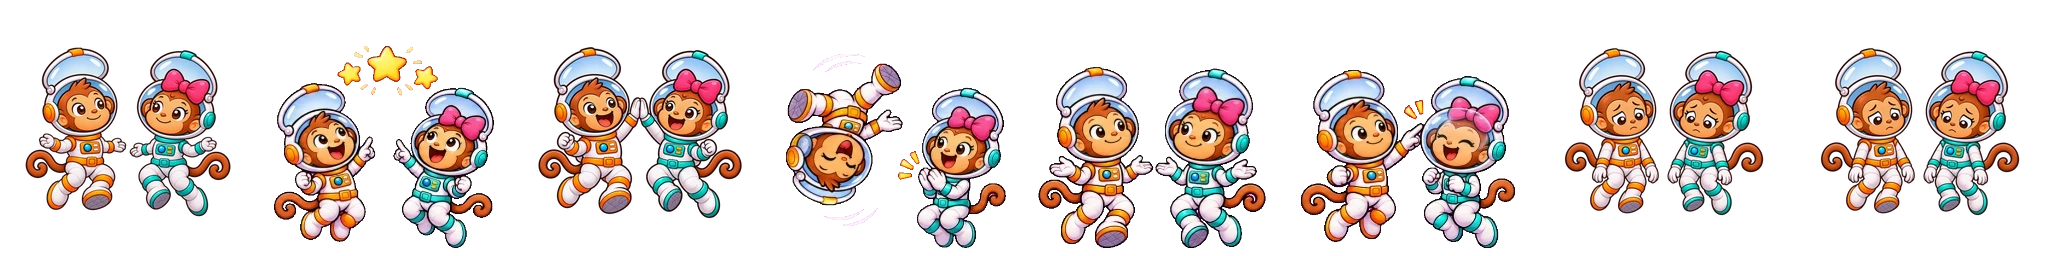
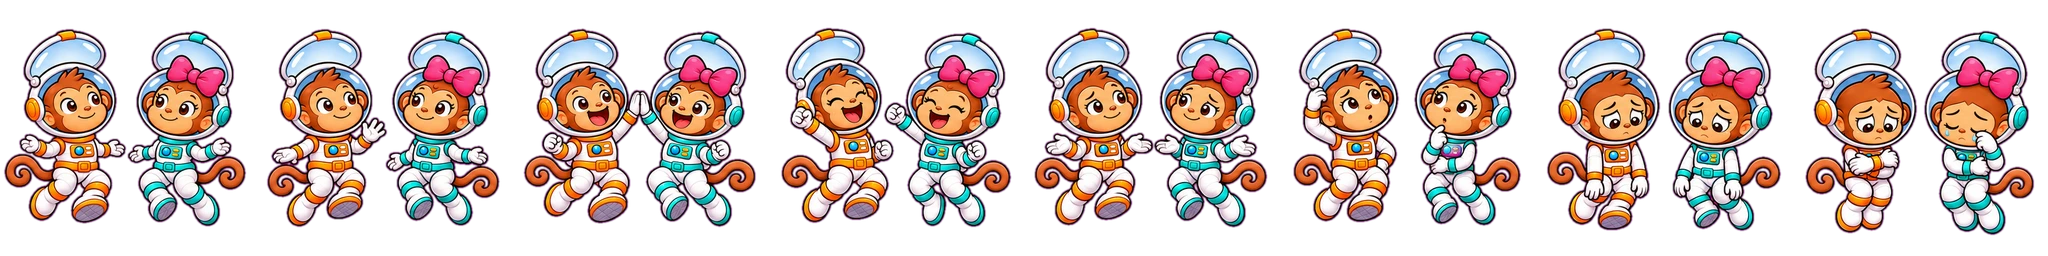
Team Worlds monkeys: new rocket-free poses and drawn in-between frames cut from the three sheets
Claude-Session: https://claude.ai/code/session_01LfmF5cxUUBcpb9MQqZTHNz

diff --git a/scripts/cut-teamworlds-sheets.py b/scripts/cut-teamworlds-sheets.py
@@ -1,0 +1,54 @@
+"""Cuts the three Team Worlds monkey sheets (art-source/teamworlds-monkeys-2026-11-22/, 4x2 cells, magenta background, no rockets)
+into icons/mascot-poses/teamworlds.webp (8 poses) and teamworlds-motion.webp (8 poses + 2 connecting frames per pose = 24 cells, 256px each).
+Strip layout (anim/mascot-poses.mjs): cells 0-7 = poses; cells 8+2p, 9+2p = the two steps from the rest pose to pose p.
+Sheet 3 cells 0-1 (pose 2 back to 1) are not used: the game plays the same drawings in reverse."""
+import pathlib
+import numpy as np
+from PIL import Image
+from collections import deque
+root = pathlib.Path(__file__).resolve().parent.parent
+src = root / "art-source/teamworlds-monkeys-2026-11-22"
+CELL = 256
+def key_out(im):
+    a = np.array(im.convert("RGB")).astype(int)
+    h, w, _ = a.shape
+    d = np.abs(a - np.array([255, 0, 255])).sum(axis=2)
+    near = d < 150
+    mask = np.zeros((h, w), bool)
+    dq = deque([(0, 0), (0, w - 1), (h - 1, 0), (h - 1, w - 1)] + [(0, x) for x in range(0, w, 5)] + [(h - 1, x) for x in range(0, w, 5)] + [(y, 0) for y in range(0, h, 5)] + [(y, w - 1) for y in range(0, h, 5)])
+    while dq:
+        y, x = dq.popleft()
+        if y < 0 or x < 0 or y >= h or x >= w or mask[y, x] or not near[y, x]: continue
+        mask[y, x] = True
+        dq.extend([(y + 1, x), (y - 1, x), (y, x + 1), (y, x - 1)])
+    # enclosed magenta holes (between a tail and a leg, say), kept only when strongly magenta
+    mask |= d < 60
+    from PIL import ImageFilter
+    alpha = Image.fromarray(np.where(mask, 0, 255).astype("uint8")).filter(ImageFilter.GaussianBlur(1.1))
+    out = im.convert("RGBA"); out.putalpha(alpha)
+    # despill: edge pixels lose their magenta tint
+    arr = np.array(out).astype(int)
+    edge = (arr[..., 3] > 0) & (arr[..., 3] < 255)
+    spill = np.minimum(arr[..., 0], arr[..., 2]) - arr[..., 1]
+    arr[..., 0] = np.where(edge, arr[..., 0] - np.clip(spill, 0, 255) // 2, arr[..., 0])
+    arr[..., 2] = np.where(edge, arr[..., 2] - np.clip(spill, 0, 255) // 2, arr[..., 2])
+    return Image.fromarray(np.clip(arr, 0, 255).astype("uint8"), "RGBA")
+def cells(name):
+    im = key_out(Image.open(src / name))
+    w, h = im.size
+    cw, ch = w / 4, h / 2
+    out = []
+    for r in range(2):
+        for c in range(4):
+            tile = im.crop((round(c * cw), round(r * ch), round((c + 1) * cw), round((r + 1) * ch)))
+            out.append(tile.resize((CELL, CELL), Image.LANCZOS))
+    return out
+s1, s2, s3 = cells("sheet1-poses.png"), cells("sheet2-between-happy-soso.png"), cells("sheet3-between-calm-sad.png")
+between = {0: (s1[0], s1[0]), 1: (s3[2], s3[3]), 2: (s2[0], s2[1]), 3: (s2[2], s2[3]), 4: (s2[4], s2[5]), 5: (s2[6], s2[7]), 6: (s3[4], s3[5]), 7: (s3[6], s3[7])}
+strip = s1 + [f for p in range(8) for f in between[p]]
+def write(frames, name):
+    sheet = Image.new("RGBA", (CELL * len(frames), CELL), (0, 0, 0, 0))
+    for i, f in enumerate(frames): sheet.alpha_composite(f, (i * CELL, 0))
+    sheet.save(root / "icons/mascot-poses" / name, quality=92)
+    print(name, sheet.size)
+write(s1, "teamworlds.webp"); write(strip, "teamworlds-motion.webp")
